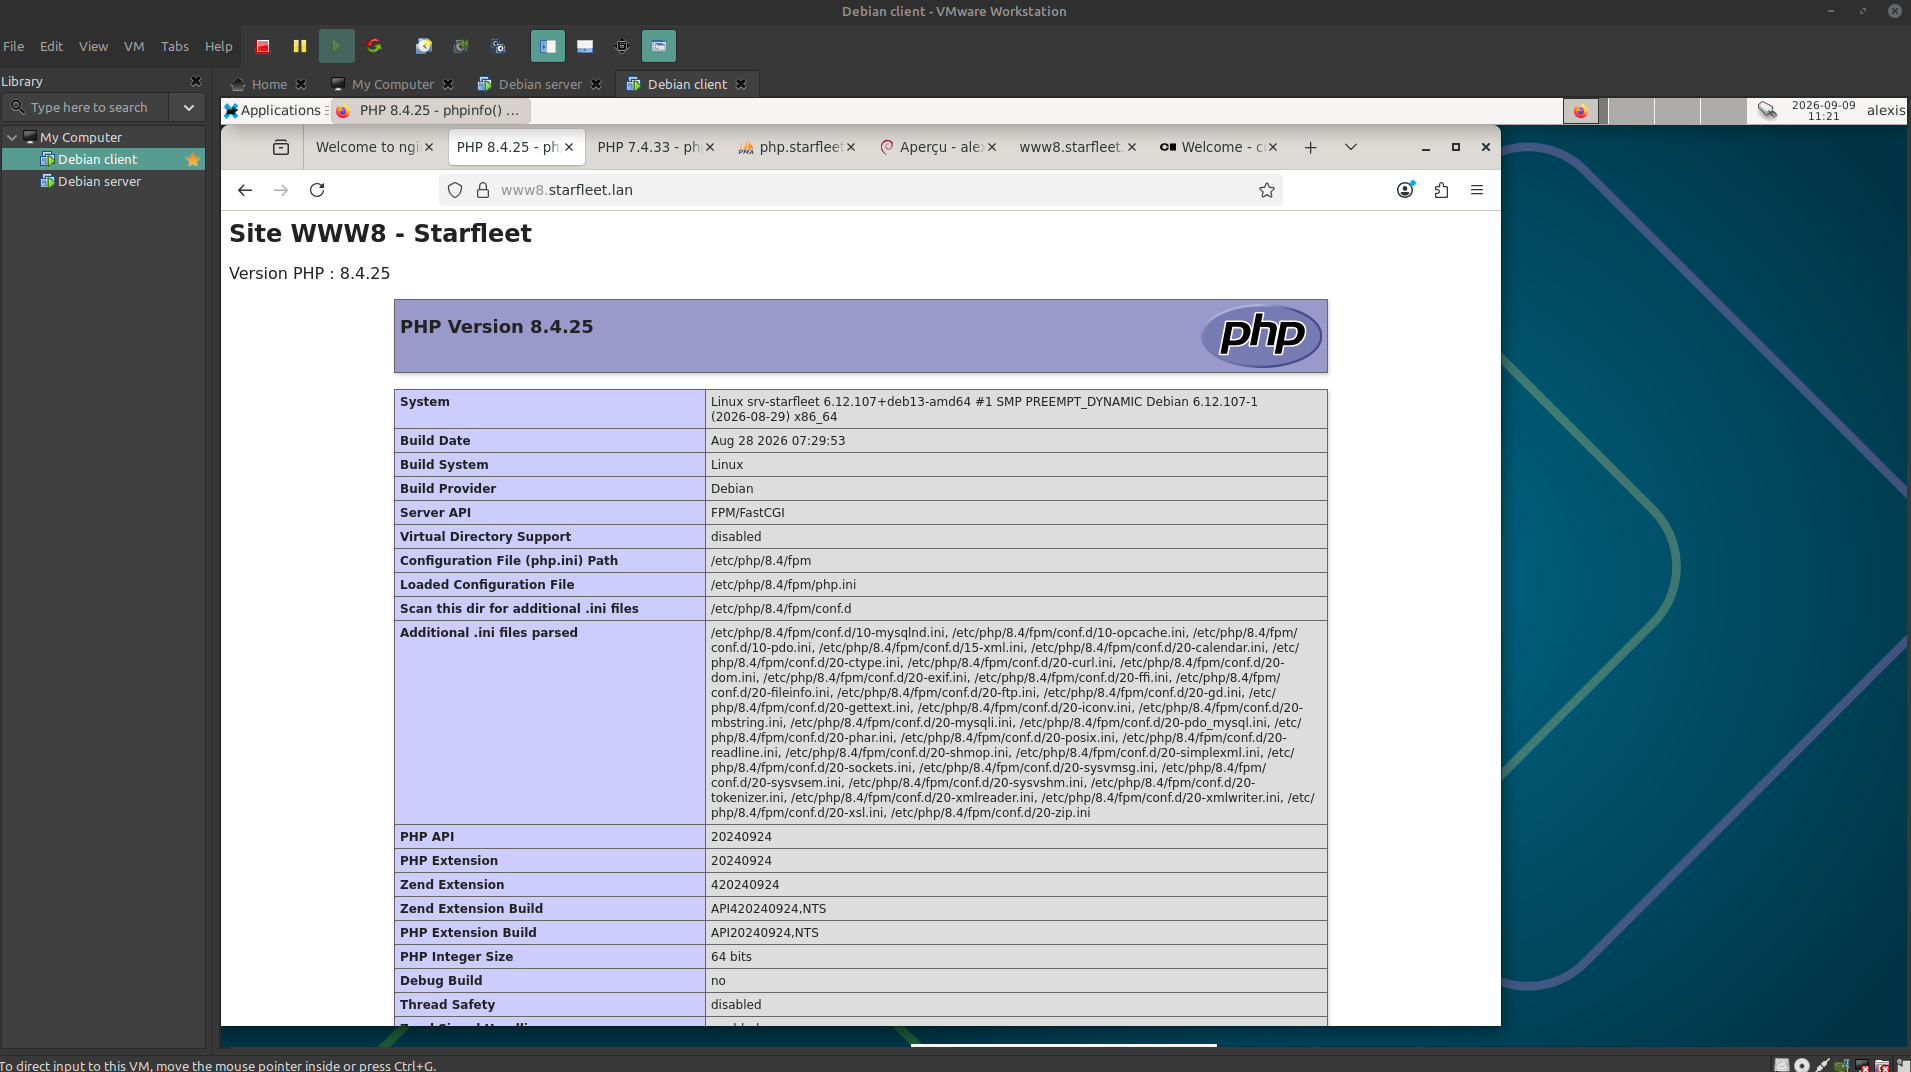
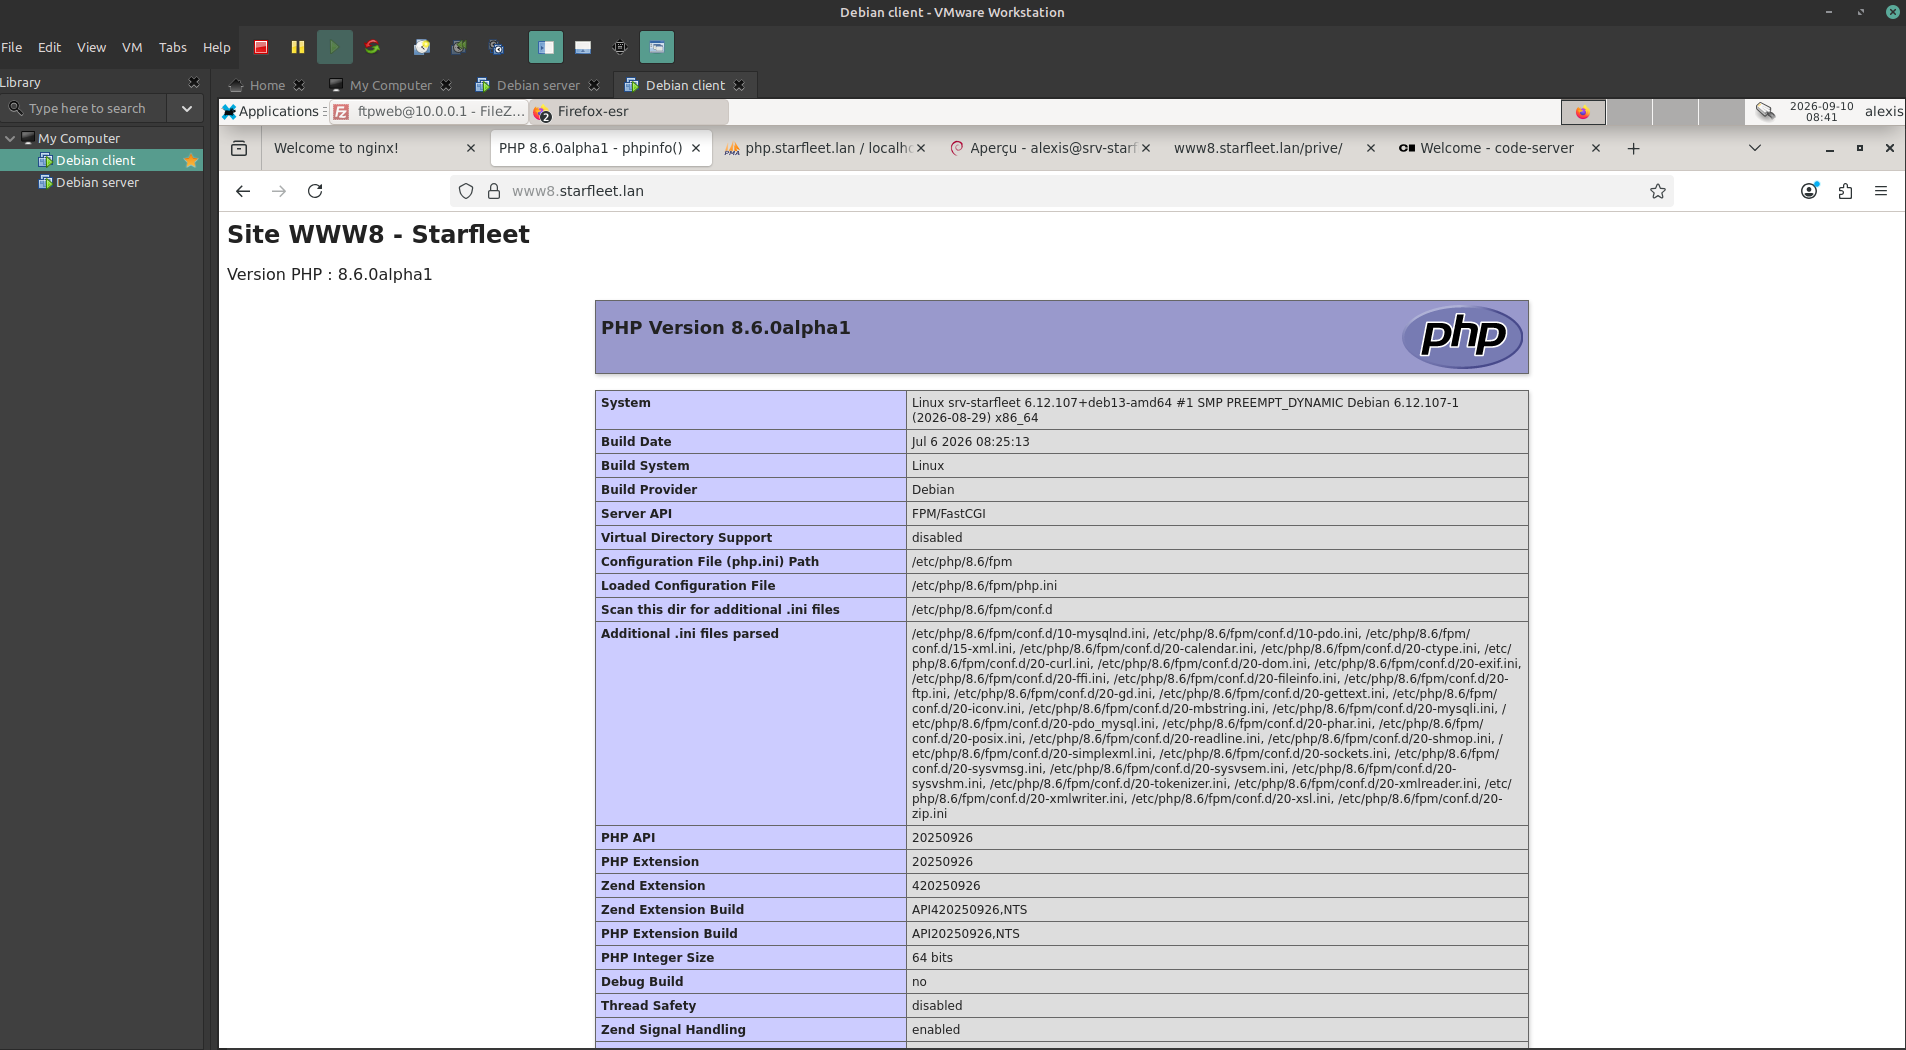
Passage de PHP 8.4 a 8.6 (demande correcteur)

diff --git a/README.md b/README.md
@@ -43,7 +43,7 @@ interface WAN. Le client n'a aucun accès direct : tout passe par le serveur.
 | **isc-dhcp-server** | 4.4.3 | DHCP : plage `10.0.0.100-200` |
 | **nftables** | — | Pare-feu (politique `drop` par défaut) + NAT |
 | **Nginx** | 1.31.5 (mainline) | Serveur web / reverse proxy HTTPS |
-| **PHP** | 7.4.33 + 8.4.25 | Cohabitation via php-fpm (sockets séparés) |
+| **PHP** | 7.4.33 + 8.6.0alpha1 | Cohabitation via php-fpm (sockets séparés) |
 | **MariaDB** | 12.3.3 | Base de données |
 | **phpMyAdmin** | 5.2.3 | Gestion de la base de données |
 | **vsftpd** | 3.0.5 | FTP chrooté en TLS |
@@ -62,7 +62,7 @@ interface WAN. Le client n'a aucun accès direct : tout passe par le serveur.
 | URL | Contenu |
 |-----|---------|
 | `www7.starfleet.lan` | Site de démonstration en PHP 7.4 |
-| `www8.starfleet.lan` | Site de démonstration en PHP 8.4 (+ zone protégée LDAP `/prive/`) |
+| `www8.starfleet.lan` | Site de démonstration en PHP 8.6 (+ zone protégée LDAP `/prive/`) |
 | `php.starfleet.lan` | phpMyAdmin |
 | `admin.starfleet.lan` | Cockpit (administration de la VM) |
 | `vscore.starfleet.lan` | code-server (VS Code Server) |
@@ -71,7 +71,7 @@ Toutes les interfaces répondent en **HTTPS**. Un vhost « catch-all » ferme la
 connexion (`return 444`) pour tout nom d'hôte non déclaré et pour les accès
 par IP directe.
 
-![Cohabitation PHP 7.4 et 8.4](docs/images/cohabitation-php.png)
+![Cohabitation PHP 7.4 et 8.6](docs/images/cohabitation-php.png)
 
 ---
 

diff --git a/docs/01-architecture.md b/docs/01-architecture.md
@@ -81,31 +81,31 @@ dépôts officiels amont :
 
 | Logiciel | Dépôt | Raison |
 |----------|-------|--------|
-| PHP 7.4 + 8.4 | `packages.sury.org` | Seul dépôt permettant la **cohabitation** de plusieurs versions de PHP |
+| PHP 7.4 + 8.6 | `packages.sury.org` | Seul dépôt permettant la **cohabitation** de plusieurs versions de PHP |
 | MariaDB 12.3 | `mariadb.org` | Dernière version stable |
 | Nginx 1.31 | `nginx.org` (mainline) | Dernière version |
 
 ---
 
-## La cohabitation PHP 7.4 / 8.4
+## La cohabitation PHP 7.4 / 8.6
 
 C'est le point central du projet. Chaque version de PHP tourne comme un
 **service php-fpm indépendant**, avec son propre socket Unix :
 
 ```
 /run/php/php7.4-fpm.sock
-/run/php/php8.4-fpm.sock
+/run/php/php8.6-fpm.sock
 ```
 
 Nginx aiguille ensuite chaque site vers le bon socket selon le nom d'hôte :
 
 - `www7.starfleet.lan` → `php7.4-fpm.sock`
-- `www8.starfleet.lan` → `php8.4-fpm.sock`
+- `www8.starfleet.lan` → `php8.6-fpm.sock`
 
 Les deux versions ne se rencontrent jamais : c'est Nginx qui décide, requête
 par requête, quel interpréteur utiliser.
 
-![Cohabitation PHP 7.4 et 8.4 côte à côte](images/cohabitation-php.png)
+![Cohabitation PHP 7.4 et 8.6 côte à côte](images/cohabitation-php.png)
 
 ---
 

diff --git a/docs/02-installation.md b/docs/02-installation.md
@@ -184,7 +184,7 @@ mariadb-secure-installation
 
 ---
 
-## 8. PHP 7.4 + 8.4 (dépôt Sury)
+## 8. PHP 7.4 + 8.6 (dépôt Sury)
 
 ```bash
 curl -sSL https://packages.sury.org/php/apt.gpg -o /etc/apt/trusted.gpg.d/sury-php.gpg
@@ -193,12 +193,12 @@ apt update
 
 apt install -y \
   php7.4-fpm php7.4-cli php7.4-mysql php7.4-mbstring php7.4-xml php7.4-curl php7.4-gd php7.4-zip \
-  php8.4-fpm php8.4-cli php8.4-mysql php8.4-mbstring php8.4-xml php8.4-curl php8.4-gd php8.4-zip
+  php8.6-fpm php8.6-cli php8.6-mysql php8.6-mbstring php8.6-xml php8.6-curl php8.6-gd php8.6-zip
 ```
 
 Deux sockets doivent exister : `ls -l /run/php/`
 
-![www8 en PHP 8.4](images/www8-php84.png)
+![www8 en PHP 8.6](images/www8-php84.png)
 
 ![www7 en PHP 7.4](images/www7-php74.png)
 
